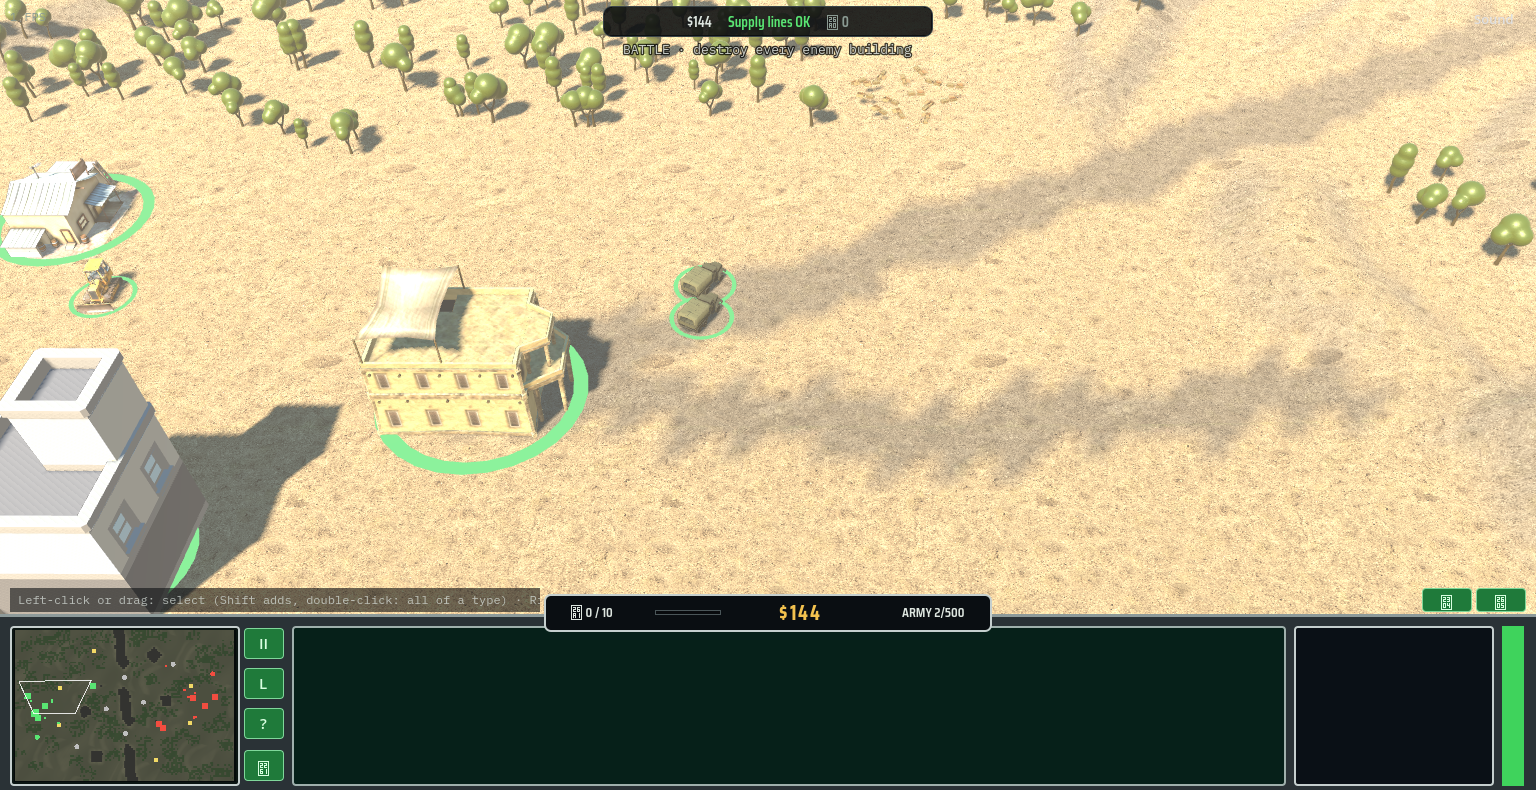
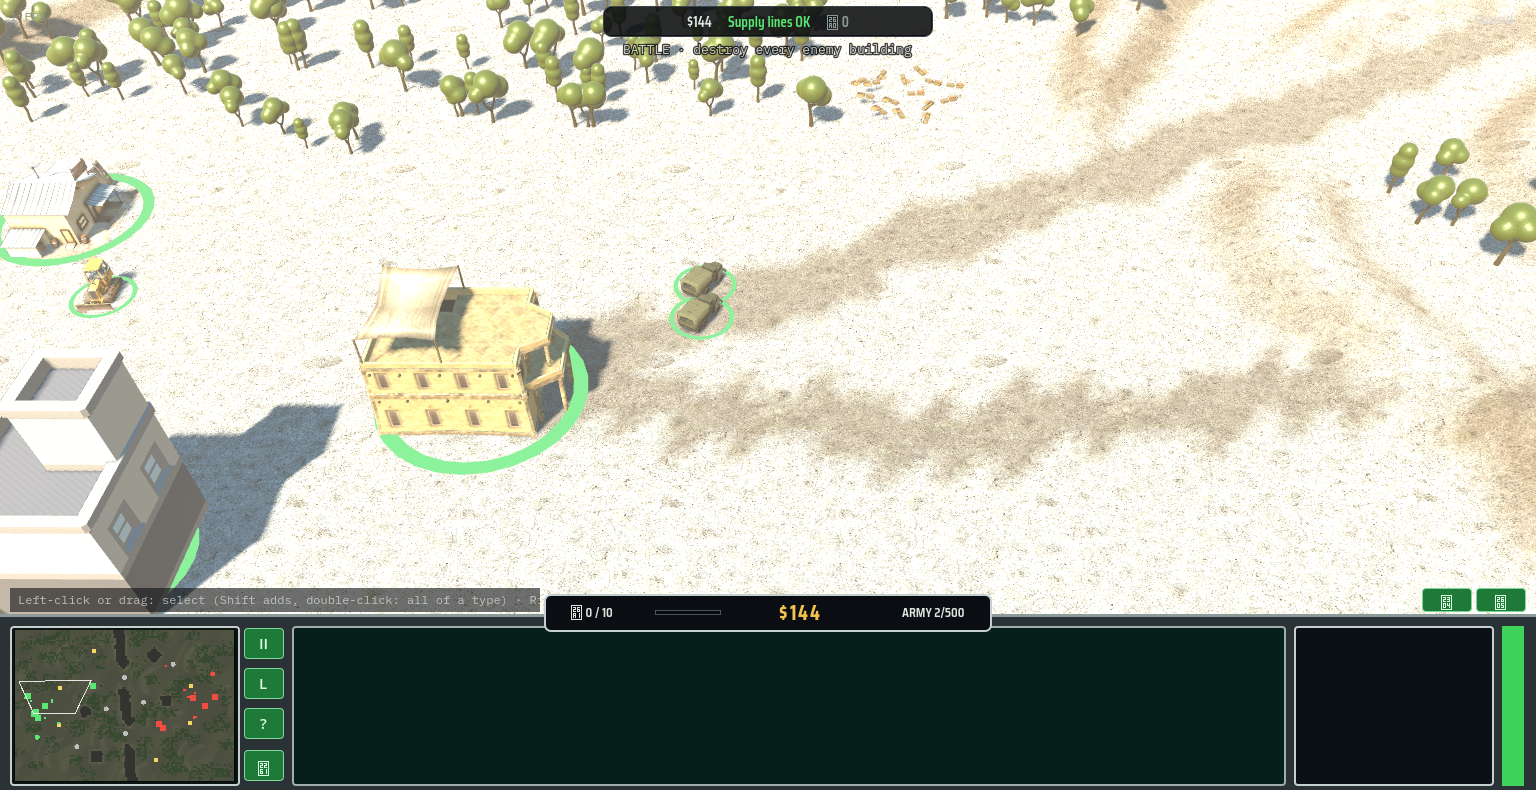
Godot port step 2: a battle starts on any of the sim's 35 Battle maps (map comes from the JS sim, not from json)
Before, any map other than the 3 exported json maps silently became Split Ridge. Now the ground, size, roads,
water, woods and bases come from the JS simulation for every Battle map; an unknown map key (or a map the sim
would swap for another) shows an error message instead of starting a different map. Ground is plain colours by
the map's theme (green / desert / snow); big maps use a coarser ground mesh. The json maps stay for --gdsim only.

Proof: bridge_test.mjs --maps: 35 of 35 Battle maps start with their fewest and most players.
check_web.mjs --maps lebanon,yemen,aegean,bm_breakwater:ffa: right map, every side alive after 60 game-seconds,
0 console errors (2, 4, 6 and 4 players). check.sh: CHECK PASS.

Claude-Session: https://claude.ai/code/session_01GRiS9o7W5GhTBQN3dC5Tt9

diff --git a/godot/web/ww3sim.js b/godot/web/ww3sim.js
@@ -5589,10 +5589,11 @@ const __API=(function BRIDGE(W) {
     tables: () => JSON.stringify({ kinds, states: STATES, weapons, flags: F, E_STRIDE: ES, PROJ_STRIDE: PS, OIL_ID,
       events: ['txt', 'boom', 'ping', 'tping', 'heal', 'halo', 'die', 'strike', 'smoke', 'gone', 'flag', 'shout', 'plane', 'dam', 'bmis', 'vig', 'tr', 'toss', 'say', 'salvo', 'rubc', 'rank', 'pj', 'muz', 'mping', 'mmst', 'mdraw', 'log', 'icpt', 'hl', 'hack', 'give', 'flare', 'emp', 'elim', 'cyb', 'civs', 'civd', 'chf', 'cfs', 'cfo', 'cfb', 'bfx', 'bfh', 'ready', 'built', 'end'],
       nations: FKEYS.map(k => ({ key: k, name: FACTIONS[k].name, color: FACTIONS[k].color || FACTIONS[k].col || '', style: FACTIONS[k].morale || '' })),
-      maps: Object.keys(MAPS).filter(k => !MAPS[k].hidden && !MAPS[k].custom).map(k => ({ key: k, name: MAPS[k].name, max: MAPS[k].maxFull || MAPS[k].max || 2, battle: /^bm_/.test(k) ? 1 : 0 })) }),
+      maps: Object.keys(MAPS).filter(k => !MAPS[k].hidden && !MAPS[k].custom).map(k => ({ key: k, name: MAPS[k].name, min: MAPS[k].min || 2, max: MAPS[k].max || 2, battle: BM_KEYS.includes(k) ? 1 : 0 })) }),   // battle 1 = a Battle map (src/02d-battlemaps.js BATTLE_MAPS) for min..max players; the sim swaps any other key / player count for a fair Battle map
     // o = {map, seed, diff, players:[{nation, ai, team}]}
     newGame: js => {
       const o = typeof js === 'string' ? JSON.parse(js) : js, P = o.players || [];
+      if (o.map && !MAPS[o.map]) return JSON.stringify({ ok: 0, error: 'Unknown map "' + o.map + '": the simulation has no map with that key.' });   // never a silent fallback
       EV = []; Q = []; seen = new Map(); fogs = [];
       const r = W.start({ seed: (o.seed | 0) || 1, facs: P.map(p => p.nation), ai: P.map(p => p.ai !== false), tm: P.map((p, i) => p.team == null ? i : p.team), map: o.map || 'bm_splitridge', battle: 1, diff: o.diff == null ? 1 : o.diff,
         portMath: o.nativeMath ? [] : ['sin', 'cos', 'atan2', 'exp', 'pow'] });
@@ -5618,7 +5619,7 @@ const __API=(function BRIDGE(W) {
     info: () => JSON.stringify(W.info()),
     mapMeta: () => {
       const rm = G.roadMask, h = G.hgrid, B = (G.map && G.map.bridges) || [];
-      return JSON.stringify({ key: G.mapKey, name: (MAPS[G.mapKey] || {}).name, MAPW, MAPH, CELL, GW, GH, bases: BASES.slice(0, Math.max(G.teams.length, 2)).map(b => [b[0], b[1]]),
+      return JSON.stringify({ key: G.mapKey, name: (MAPS[G.mapKey] || {}).name, theme: (G.map && G.map.theme) || 'green', MAPW, MAPH, CELL, GW, GH, bases: BASES.slice(0, Math.max(G.teams.length, 2)).map(b => [b[0], b[1]]),
         hgrid: h ? { R: h.R, w: h.w, h: h.h } : null, road: rm ? { C: rm.C || 16, w: rm.w, h: rm.h } : null,
         fields: G.fields.map(f => ({ x: f.x, y: f.y, r: f.r, amt: f.amt })), oil: G.oil.map(o => ({ x: o.x, y: o.y, tb: o.tb || null, pw: o.pw || 0 })),
         civ: (G.civ || []).filter(c => !c.dug).map(c => ({ i: c.i, x: Math.round(c.x), y: Math.round(c.y), h: +(c.h || 0).toFixed(1), rot: +(c.rot || 0).toFixed(2), ruin: c.ruin ? 1 : 0 })),
@@ -5683,7 +5684,7 @@ if(typeof WorkerGlobalScope!=='undefined'&&typeof self!=='undefined'&&self insta
   var boot={c:'boot',tables:W.tables(),rules:{}};JSON.parse(boot.tables).nations.forEach(function(n){try{boot.rules[n.key]=W.rules(n.key);}catch(e){boot.rules[n.key]='{}';}});
   self.postMessage(boot);
   self.onmessage=function(e){var m=e.data;
-    if(m.c==='new'){lgv=-1;var r=W.newGame(m.o),b={},tr=[];['grid','cover','wood','hgrid','road'].forEach(function(k){b[k]=W.mapBuf(k).buffer;tr.push(b[k]);});
+    if(m.c==='new'){lgv=-1;var r=W.newGame(m.o),b={},tr=[];if(JSON.parse(r).ok!==1){self.postMessage({c:'new',r:r,meta:'{}',bufs:{},ent:new ArrayBuffer(0),lines:'{}',hash:''});return;}['grid','cover','wood','hgrid','road'].forEach(function(k){b[k]=W.mapBuf(k).buffer;tr.push(b[k]);});
       var ent=W.entBuf().buffer;tr.push(ent);self.postMessage({c:'new',r:r,meta:W.mapMeta(),bufs:b,ent:ent,lines:W.lines(),hash:W.hash()},tr);lgv=W.lgv();}
     else if(m.c==='step'){var t0=performance.now();for(var i=0;i<m.orders.length;i++)W.order(m.orders[i][0],m.orders[i][1]);
       var js=W.step(m.k),ent2=W.entBuf().buffer,pj=W.projBuf().buffer,o={c:'step',js:js,ent:ent2,proj:pj},tr2=[ent2,pj];

diff --git a/orch/KAIZEN.md b/orch/KAIZEN.md
@@ -9,7 +9,6 @@ Lane notes to reuse (do not re-read the code from scratch): orch/HANDOFF-gport-{
 `orch/gport-a` .. `orch/gport-f`; exports on `orch/gport-x1` (models) and `orch/gport-x2` (data, text, icons).
 
 ## Queue (top = next)
-2. Battle starts on ANY map the sim offers (today every other map silently becomes Split Ridge).
 3. Pickers list all 22 nations and every Battle map (from the bridge tables / X2 data).
 4. HUD on the JS sim: selecting a dozer or a production building works (adapter fields the HUD reads).
 5. Orders in the JS sim's format: guard, enter, unload, dig in.
@@ -17,6 +16,7 @@ Lane notes to reuse (do not re-read the code from scratch): orch/HANDOFF-gport-{
 7. Generals' powers and leader abilities (orders + panel).
 8. Sound events: audio sees the sim's events before battle.gd drains them (under attack, low power, impacts).
 9. Units drawn in bulk from the bridge buffers (boxes first, measure 1,000 / 2,000 units), then X1's models.
+9b. Re-run the model export (branch orch/gport-x1: flag-on-every-building and black IR/RV tank are fixed in the script but the files were not regenerated), then merge orch/gport-x1 and orch/gport-x2.
 10. Animated soldiers.
 11. World: every map's ground, buildings from X1, effects, supply lines on the ground (L).
 12. Saves by sim snapshot; Continue; Test range with enemy AI; Missions and Tutorial on the JS sim.
@@ -28,3 +28,14 @@ Lane notes to reuse (do not re-read the code from scratch): orch/HANDOFF-gport-{
 - 2026-11-22: step 1 done - check.sh passes in full: 9 steps, 159 s total (web step 92 s; the AI battle reaches 60
   game-seconds in 34 s instead of not in 900 s, 0 console errors, IR 6 units 5 buildings, US 7 units 5 buildings).
   How: `?ff=150` (CHECK HOOK in battle.gd) asks the worker sim for 150 ticks in one call instead of waiting on drawn frames.
+- 2026-11-22: step 2 done - a battle starts on any Battle map of the JS sim, map taken from the bridge (no json, no
+  silent Split Ridge; an unknown key or a map the sim swaps is an error message on screen). Node
+  (`node tools-godot/bridge_test.mjs --maps`, 2.5 min): 35 of 35 Battle maps start with their fewest and most players;
+  the sim's table has 122 map rows but only 35 are Battle maps (`tables().maps[].battle` = 1, with `min` / `max`
+  players, from src/02d-battlemaps.js BATTLE_MAPS) - the sim swaps any other key or player count for another map, so
+  step 3's map picker must list only those 35. Browser (`node tools-godot/check_web.mjs --maps
+  lebanon,yemen,aegean,bm_breakwater:ffa`, on demand, 5.7 min): South Lebanon 9160x6280 2 players, Yemen Highlands
+  10440x7160 4, Aegean Islands 9680x6680 6, Breakwater 6400x4400 4: right map key, every side alive after 60
+  game-seconds, 0 console errors; `?map=no_such_map` shows the error. Picture: orch/shots/check/map-other.png.
+  check.sh CHECK PASS in 263 s. Not done here: chosen start spots are not sent to the JS sim yet (seats take the
+  map's order); the command-line free-for-all repeats nations (only 4 in the old rules.json) until step 3.

diff --git a/godot/bridge/README.md b/godot/bridge/README.md
@@ -162,7 +162,7 @@ Unknown types are safe to ignore.
 
 ## Map (`sim.map_data()`, once per game)
 
-`{key, name, MAPW, MAPH, CELL, GW, GH, bases:[[x,y]..],
+`{key, name, theme ("green" | "desert" | "snow"), MAPW, MAPH, CELL, GW, GH, bases:[[x,y]..],
   grid: PackedByteArray GW×GH (0 land, 1 water, 2 bridge deck/ford, 3 building/wall, 4 deep water / blown bridge),
   cover, wood: PackedByteArray GW×GH,
   hgrid:{R, w, h, a: PackedFloat32Array}  (ground height at (i*R, j*R)),
@@ -173,6 +173,11 @@ Unknown types are safe to ignore.
 `sim.lines()` (re-read when `sim.lgv` changes): `{roads:[[[x,y]..]..], cov:[per team {edge:{v:[[s0,s1]..], d:[..]}}],
 bead:[per team [[x,y,r]..]], craters:[{x,y,left}], bridges_dead:[i..], ck:[{team,x,y}], mines:[{team,x,y}],
 rc:{edge:{o,c,p}}, dug:[{x,y,a,k,team}]}` — colours: green yours, red enemy, gray neutral; `d` = cut (dashed).
+
+Which maps: `tables().maps` = `[{key, name, min, max, battle}]`; `battle` 1 = one of the sim's 35 Battle maps, playable
+with `min`..`max` players. The sim swaps any other key or player count for a fair Battle map, and the map's size can
+grow with the player count - so compare `map_data().key` with what you asked for (battle.gd shows an error), and an
+unknown key makes `new_game` fail (`sim.error`). Proof: `node tools-godot/bridge_test.mjs --maps`.
 
 ## Orders (`sim.order(team_slot, obj)`) — exactly the JS game's `act(team, a)` objects
 
